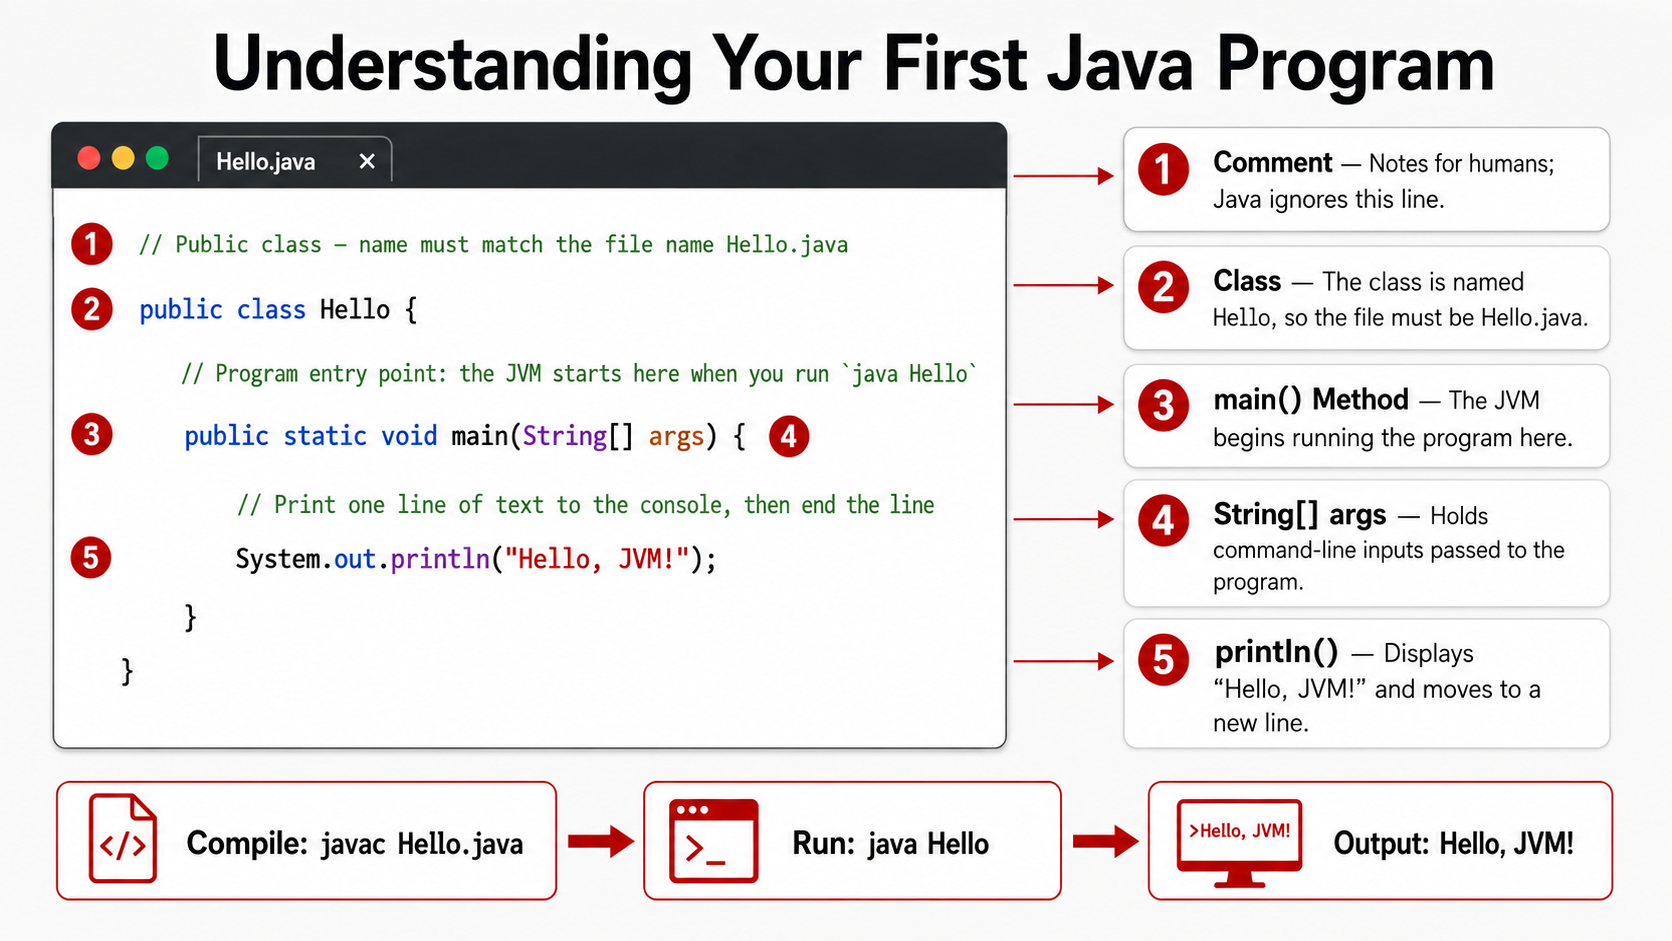
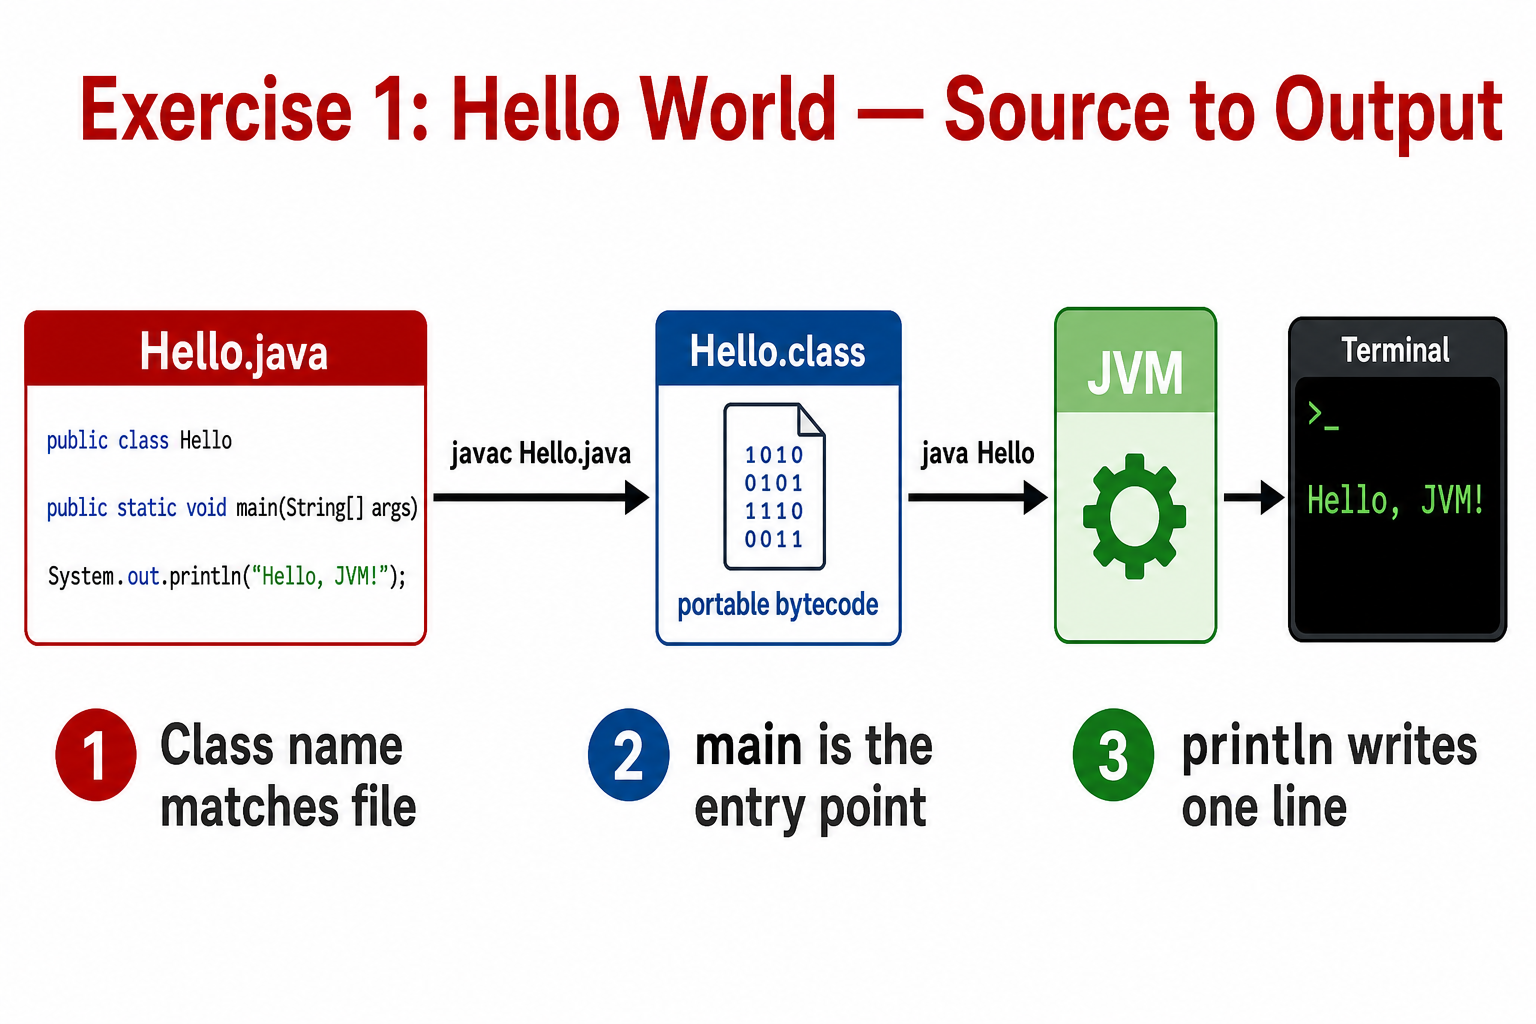
Add and refresh Week 1 Modules 1-4 pre-lab exercise diagrams and link them in the exercise guides.

Changed region(s): [[0.0, 0.0308, 1.0, 0.9554]]

diff --git a/labs/lab_diagrams/README.md b/labs/lab_diagrams/README.md
@@ -9,12 +9,13 @@ Exercise guides: [`module-01/exercises/`](../Week%201%20-%20Java%20and%20JVM%20F
 | File | Exercise |
 | ---- | -------- |
 | [`mod01-ex01-hello-world.png`](mod01-ex01-hello-world.png) | Exercise 1 — Hello World |
-| [`mod01-ex02-variables.png`](mod01-ex02-variables.png) | Exercise 2 — Variables and Data Types |
-| [`mod01-ex03-methods.png`](mod01-ex03-methods.png) | Exercise 3 — Methods and Parameters |
-| [`mod01-ex04-control-flow.png`](mod01-ex04-control-flow.png) | Exercise 4 — Control Flow |
-| [`mod01-ex05-objects-person.png`](mod01-ex05-objects-person.png) | Exercise 5 — Objects and Classes |
-| [`mod01-ex06-javap-bytecode.png`](mod01-ex06-javap-bytecode.png) | Exercise 6 — Inspect Bytecode |
-| [`mod01-ex07-wora.png`](mod01-ex07-wora.png) | Exercise 7 — Platform Independence (WORA) |
+| [`mod01-ex02-wora.png`](mod01-ex02-wora.png) | Exercise 2 — Platform Independence (WORA) |
+| [`mod01-ex03-control-flow.png`](mod01-ex03-control-flow.png) | Exercise 3 — Control Flow |
+| [`mod01-ex04-class-loading.png`](mod01-ex04-class-loading.png) | Exercise 4 — Watch Class Loading |
+| [`mod01-ex05-variables.png`](mod01-ex05-variables.png) | Exercise 5 — Variables and Data Types |
+| [`mod01-ex06-methods.png`](mod01-ex06-methods.png) | Exercise 6 — Methods and Parameters |
+| [`mod01-ex07-objects.png`](mod01-ex07-objects.png) | Exercise 7 — Objects and Classes |
+| [`mod01-ex08-javap-bytecode.png`](mod01-ex08-javap-bytecode.png) | Exercise 8 — Inspect Bytecode |
 
 ## Module 2 — Java Syntax and Core Constructs
 
@@ -23,6 +24,9 @@ Exercise guides: [`module-02/exercises/`](../Week%201%20-%20Java%20and%20JVM%20F
 | File | Exercise |
 | ---- | -------- |
 | [`mod02-ex01-calculator.png`](mod02-ex01-calculator.png) | Exercise 1 — Calculations |
+| [`mod02-ex02-decision-making.png`](mod02-ex02-decision-making.png) | Exercise 2 — Decision Making |
+| [`mod02-ex03-loops.png`](mod02-ex03-loops.png) | Exercise 3 — Loops |
+| [`mod02-ex04-methods.png`](mod02-ex04-methods.png) | Exercise 4 — Methods |
 | [`mod02-ex05-personal-details.png`](mod02-ex05-personal-details.png) | Exercise 5 — Personal Details |
 | [`mod02-ex06-product-info.png`](mod02-ex06-product-info.png) | Exercise 6 — Product Information |
 | [`mod02-ex07-circle-area.png`](mod02-ex07-circle-area.png) | Exercise 7 — Area of Circle |
@@ -35,4 +39,24 @@ Exercise guides: [`module-03/exercises/`](../Week%201%20-%20Java%20and%20JVM%20F
 
 | File | Exercise |
 | ---- | -------- |
+| [`mod03-ex01-domain-entities.png`](mod03-ex01-domain-entities.png) | Exercise 1 — Identify Domain Entities |
+| [`mod03-ex02-encapsulation.png`](mod03-ex02-encapsulation.png) | Exercise 2 — Encapsulation Practice |
+| [`mod03-ex03-inheritance-polymorphism.svg`](mod03-ex03-inheritance-polymorphism.svg) | Exercise 3 — Inheritance and Polymorphism |
+| [`mod03-ex04-abstract-classes.png`](mod03-ex04-abstract-classes.png) | Exercise 4 — Abstract Classes |
+| [`mod03-ex05-interface.png`](mod03-ex05-interface.png) | Exercise 5 — Interface Practice |
+| [`mod03-ex06-solid-srp.svg`](mod03-ex06-solid-srp.svg) | Exercise 6 — SOLID Spot-Check: SRP |
+| [`mod03-ex07-solid-principles.png`](mod03-ex07-solid-principles.png) | Exercise 7 — SOLID Beyond SRP |
 | [`mod03-ex08-uml-mini.png`](mod03-ex08-uml-mini.png) | Exercise 8 — Mini UML |
+
+## Module 4 — Memory Management and Garbage Collection
+
+Exercise guides: [`module-04/exercises/`](../Week%201%20-%20Java%20and%20JVM%20Foundations/module-04/exercises/)
+
+| File | Exercise |
+| ---- | -------- |
+| [`mod04-ex01-stack-vs-heap.png`](mod04-ex01-stack-vs-heap.png) | Exercise 1 — Stack vs Heap Basics |
+| [`mod04-ex02-object-lifecycle.png`](mod04-ex02-object-lifecycle.png) | Exercise 2 — Object Lifecycle |
+| [`mod04-ex03-gc-observe.png`](mod04-ex03-gc-observe.png) | Exercise 3 — Garbage Collection in Action |
+| [`mod04-ex05-zgc.png`](mod04-ex05-zgc.png) | Exercise 5 — ZGC Flag |
+| [`mod04-ex06-retained-references.png`](mod04-ex06-retained-references.png) | Exercise 6 — Retention Sketch |
+| [`mod04-ex07-string-vs-builder.png`](mod04-ex07-string-vs-builder.png) | Exercise 7 — String vs StringBuilder |

diff --git a/labs/Week 1 - Java and JVM Foundations/module-01/exercises/exercise-02-wora.md b/labs/Week 1 - Java and JVM Foundations/module-01/exercises/exercise-02-wora.md
@@ -3,7 +3,7 @@
 **Module 1** · Pre-lab practice · then open [`../../lab1/LAB-1-GUIDE.md`](../lab1/LAB-1-GUIDE.md)  
 **Folder:** `examples/module-01-exercises/` ([setup](EXERCISES-INDEX.md))
 
-![Java: Compile Once, Run Anywhere](../../../lab_diagrams/mod01-ex07-wora.png)
+![Write Once, Run Anywhere with OS-Specific JVMs](../../../lab_diagrams/mod01-ex02-wora.png)
 
 ## Goal
 

diff --git a/labs/Week 1 - Java and JVM Foundations/module-01/exercises/exercise-03-control-flow.md b/labs/Week 1 - Java and JVM Foundations/module-01/exercises/exercise-03-control-flow.md
@@ -3,7 +3,7 @@
 **Module 1** · Pre-lab practice · then open [`../../lab1/LAB-1-GUIDE.md`](../lab1/LAB-1-GUIDE.md)  
 **Folder:** `examples/module-01-exercises/` ([setup](EXERCISES-INDEX.md))
 
-![Java Control Flow: Decisions and Loops](../../../lab_diagrams/mod01-ex04-control-flow.png)
+![Java Control Flow with Decisions and Loops](../../../lab_diagrams/mod01-ex03-control-flow.png)
 
 ## Goal
 

diff --git a/labs/Week 1 - Java and JVM Foundations/module-01/exercises/exercise-04-class-loading.md b/labs/Week 1 - Java and JVM Foundations/module-01/exercises/exercise-04-class-loading.md
@@ -3,6 +3,8 @@
 **Module 1** · Pre-lab practice · then open [`../../lab1/LAB-1-GUIDE.md`](../lab1/LAB-1-GUIDE.md)  
 **Folder:** `examples/module-01-exercises/` (see [EXERCISES-INDEX.md](EXERCISES-INDEX.md) setup)
 
+![Bootstrap, Platform, and Application Class Loading](../../../lab_diagrams/mod01-ex04-class-loading.png)
+
 ## Goal
 
 Run `Hello` with `-verbose:class` and identify which class loader loaded `Hello` versus a core JDK class like `String`.

diff --git a/labs/Week 1 - Java and JVM Foundations/module-01/exercises/exercise-05-variables.md b/labs/Week 1 - Java and JVM Foundations/module-01/exercises/exercise-05-variables.md
@@ -3,7 +3,7 @@
 **Module 1** · Pre-lab practice · then open [`../../lab1/LAB-1-GUIDE.md`](../lab1/LAB-1-GUIDE.md)  
 **Folder:** `examples/module-01-exercises/` ([setup](EXERCISES-INDEX.md))
 
-![Java Variables and Data Types](../../../lab_diagrams/mod01-ex02-variables.png)
+![Java Variables, Primitive Values, and Reference Types](../../../lab_diagrams/mod01-ex05-variables.png)
 
 ## Goal
 

diff --git a/labs/Week 1 - Java and JVM Foundations/module-01/exercises/exercise-06-methods.md b/labs/Week 1 - Java and JVM Foundations/module-01/exercises/exercise-06-methods.md
@@ -3,7 +3,7 @@
 **Module 1** · Pre-lab practice · then open [`../../lab1/LAB-1-GUIDE.md`](../lab1/LAB-1-GUIDE.md)  
 **Folder:** `examples/module-01-exercises/` ([setup](EXERCISES-INDEX.md))
 
-![Java Methods: Parameters and Return Values](../../../lab_diagrams/mod01-ex03-methods.png)
+![Java Method Calls, Parameters, and Return Values](../../../lab_diagrams/mod01-ex06-methods.png)
 
 ## Goal
 

diff --git a/labs/Week 1 - Java and JVM Foundations/module-01/exercises/exercise-07-objects.md b/labs/Week 1 - Java and JVM Foundations/module-01/exercises/exercise-07-objects.md
@@ -3,7 +3,7 @@
 **Module 1** · Pre-lab practice · then open [`../../lab1/LAB-1-GUIDE.md`](../lab1/LAB-1-GUIDE.md)  
 **Folder:** `examples/module-01-exercises/` ([setup](EXERCISES-INDEX.md))
 
-![Java Classes and Objects: The Person Example](../../../lab_diagrams/mod01-ex05-objects-person.png)
+![Java Classes, Objects, and References](../../../lab_diagrams/mod01-ex07-objects.png)
 
 ## Goal
 

diff --git a/labs/Week 1 - Java and JVM Foundations/module-01/exercises/exercise-08-javap.md b/labs/Week 1 - Java and JVM Foundations/module-01/exercises/exercise-08-javap.md
@@ -3,7 +3,7 @@
 **Module 1** · Pre-lab practice · then open [`../../lab1/LAB-1-GUIDE.md`](../lab1/LAB-1-GUIDE.md)  
 **Folder:** `examples/module-01-exercises/` ([setup](EXERCISES-INDEX.md))
 
-![From Java Source to JVM Bytecode: Person.class](../../../lab_diagrams/mod01-ex06-javap-bytecode.png)
+![Inspecting Person Bytecode with javap](../../../lab_diagrams/mod01-ex08-javap-bytecode.png)
 
 ## Goal
 

diff --git a/labs/Week 1 - Java and JVM Foundations/module-02/exercises/exercise-02-decision-making.md b/labs/Week 1 - Java and JVM Foundations/module-02/exercises/exercise-02-decision-making.md
@@ -3,6 +3,8 @@
 **Module 2** · Pre-lab practice · then open [`../lab2/LAB-2-GUIDE.md`](../lab2/LAB-2-GUIDE.md)  
 **Folder:** `examples/module-02-exercises/` ([setup](EXERCISES-INDEX.md))
 
+![Java Decisions: if/else-if versus switch](../../../lab_diagrams/mod02-ex02-decision-making.png)
+
 > **New for Module 2:** `if` / `else if` / `else` and `switch` — the two ways Java picks a path.
 
 ## Goal

diff --git a/labs/Week 1 - Java and JVM Foundations/module-02/exercises/exercise-03-loops.md b/labs/Week 1 - Java and JVM Foundations/module-02/exercises/exercise-03-loops.md
@@ -3,6 +3,8 @@
 **Module 2** · Pre-lab practice · then open [`../lab2/LAB-2-GUIDE.md`](../lab2/LAB-2-GUIDE.md)  
 **Folder:** `examples/module-02-exercises/` ([setup](EXERCISES-INDEX.md))
 
+![Java Loops: for, while, and do-while](../../../lab_diagrams/mod02-ex03-loops.png)
+
 > **New for Module 2:** `for`, `while`, and `do-while` — Java's three ways to repeat.
 
 ## Goal

diff --git a/labs/Week 1 - Java and JVM Foundations/module-02/exercises/exercise-04-methods.md b/labs/Week 1 - Java and JVM Foundations/module-02/exercises/exercise-04-methods.md
@@ -3,6 +3,8 @@
 **Module 2** · Pre-lab practice · then open [`../lab2/LAB-2-GUIDE.md`](../lab2/LAB-2-GUIDE.md)  
 **Folder:** `examples/module-02-exercises/` ([setup](EXERCISES-INDEX.md))
 
+![Java Methods: Return Values and Overloading](../../../lab_diagrams/mod02-ex04-methods.png)
+
 > **New for Module 2:** declaring your own methods, passing parameters, returning a value, and overloading.
 
 ## Goal

diff --git a/labs/Week 1 - Java and JVM Foundations/module-03/exercises/exercise-01-domain-entities.md b/labs/Week 1 - Java and JVM Foundations/module-03/exercises/exercise-01-domain-entities.md
@@ -3,6 +3,8 @@
 **Module 3** · Pre-lab practice · then open [`../lab3/LAB-3-GUIDE.md`](../lab3/LAB-3-GUIDE.md)  
 **Folder:** `examples/module-03-exercises/` ([setup](EXERCISES-INDEX.md))
 
+![Banking Domain Entities and Responsibilities](../../../lab_diagrams/mod03-ex01-domain-entities.png)
+
 > **Design before code:** Lab 3 is a banking system. First translate the business description into objects with focused responsibilities.
 
 ## Goal